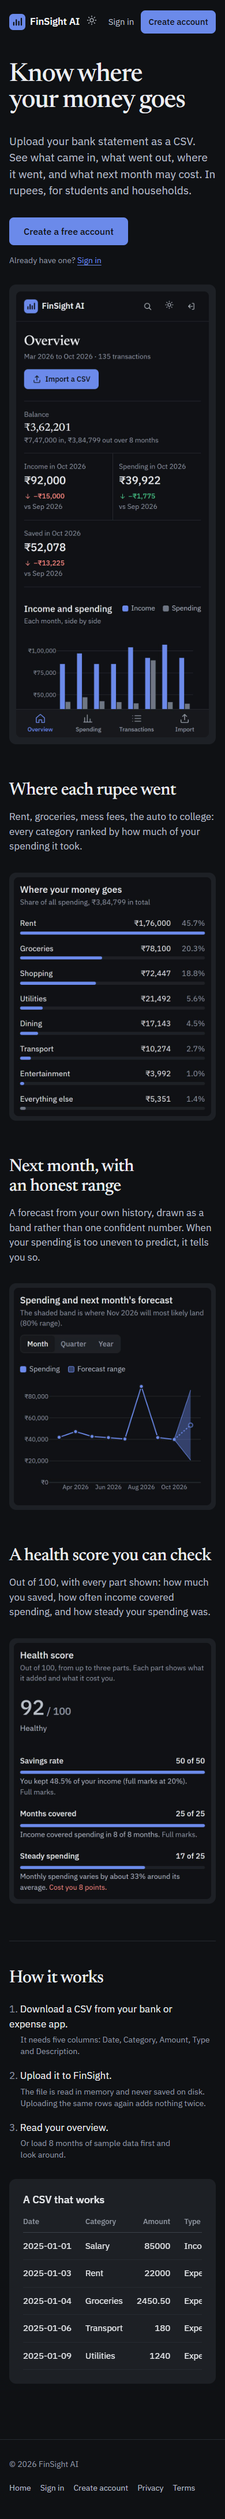
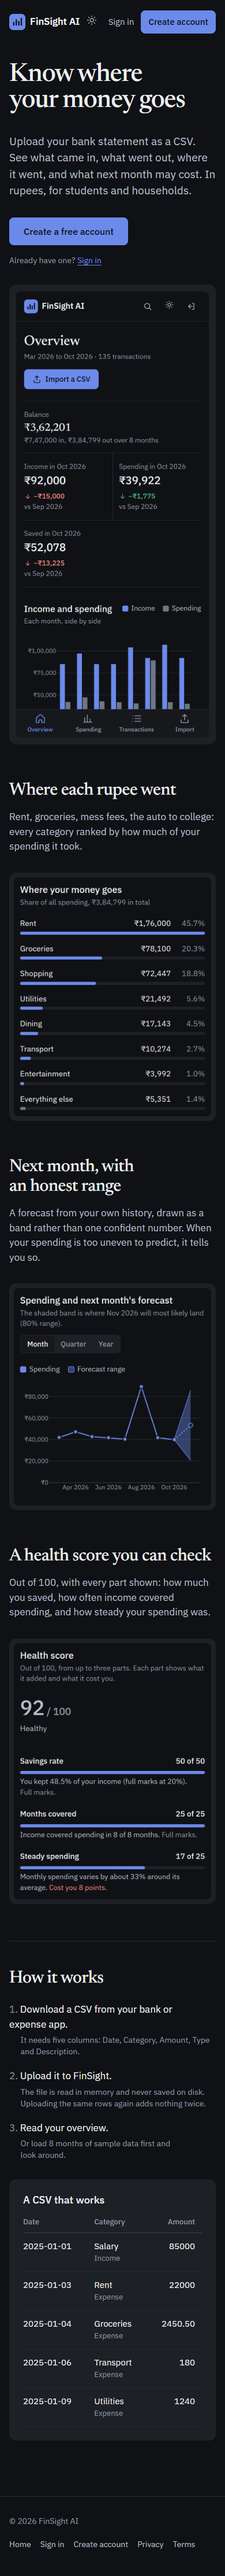
Fit the landing CSV example on phones without clipping
Under 600px the example shows Date, Category and Amount, with the Type
as a small line under the category; Description is left out. Desktop is
unchanged. Amounts stay unsigned, as the CSV format requires.

Changed region(s): [[0.0308, 0.0, 0.9231, 0.9366], [0.5231, 0.1561, 0.7077, 0.2185], [0.8615, 0.2185, 0.8923, 0.2498]]

diff --git a/templates/landing.html b/templates/landing.html
@@ -66,13 +66,13 @@
     <div class="table-wrap csv-table">
       <table class="data-table">
         <caption class="sr-only">Example CSV rows</caption>
-        <thead><tr><th scope="col">Date</th><th scope="col">Category</th><th scope="col" class="r">Amount</th><th scope="col">Type</th><th scope="col">Description</th></tr></thead>
+        <thead><tr><th scope="col">Date</th><th scope="col">Category</th><th scope="col" class="r">Amount</th><th scope="col" class="csv-wide">Type</th><th scope="col" class="csv-wide">Description</th></tr></thead>
         <tbody>
-          <tr><td class="num">2025-01-01</td><td>Salary</td><td class="r">85000</td><td>Income</td><td>Monthly salary</td></tr>
-          <tr><td class="num">2025-01-03</td><td>Rent</td><td class="r">22000</td><td>Expense</td><td>Flat rent</td></tr>
-          <tr><td class="num">2025-01-04</td><td>Groceries</td><td class="r">2450.50</td><td>Expense</td><td>Weekly groceries</td></tr>
-          <tr><td class="num">2025-01-06</td><td>Transport</td><td class="r">180</td><td>Expense</td><td>Auto to college</td></tr>
-          <tr><td class="num">2025-01-09</td><td>Utilities</td><td class="r">1240</td><td>Expense</td><td>Electricity bill</td></tr>
+          <tr><td class="num">2025-01-01</td><td>Salary<span class="csv-sub">Income</span></td><td class="r">85000</td><td class="csv-wide">Income</td><td class="csv-wide">Monthly salary</td></tr>
+          <tr><td class="num">2025-01-03</td><td>Rent<span class="csv-sub">Expense</span></td><td class="r">22000</td><td class="csv-wide">Expense</td><td class="csv-wide">Flat rent</td></tr>
+          <tr><td class="num">2025-01-04</td><td>Groceries<span class="csv-sub">Expense</span></td><td class="r">2450.50</td><td class="csv-wide">Expense</td><td class="csv-wide">Weekly groceries</td></tr>
+          <tr><td class="num">2025-01-06</td><td>Transport<span class="csv-sub">Expense</span></td><td class="r">180</td><td class="csv-wide">Expense</td><td class="csv-wide">Auto to college</td></tr>
+          <tr><td class="num">2025-01-09</td><td>Utilities<span class="csv-sub">Expense</span></td><td class="r">1240</td><td class="csv-wide">Expense</td><td class="csv-wide">Electricity bill</td></tr>
         </tbody>
       </table>
     </div>

diff --git a/static/style.css b/static/style.css
@@ -185,6 +185,12 @@ svg { flex: none; }
 .shot picture { display: block; }
 .shot .shot-dark { display: none; }
 .csv-table td { white-space: nowrap; }
+.csv-sub { display: none; }
+/* Narrow screens: Date, Category and Amount only, with Type as a second line, so nothing is cut off. */
+@media (max-width: 600px) {
+  .csv-table .csv-wide { display: none; }
+  .csv-table .csv-sub { display: block; color: var(--muted); font-size: 13px; }
+}
 .brand span, .site-link { white-space: nowrap; }
 [data-theme="dark"] .shot .shot-light { display: none; }
 [data-theme="dark"] .shot .shot-dark { display: block; }
